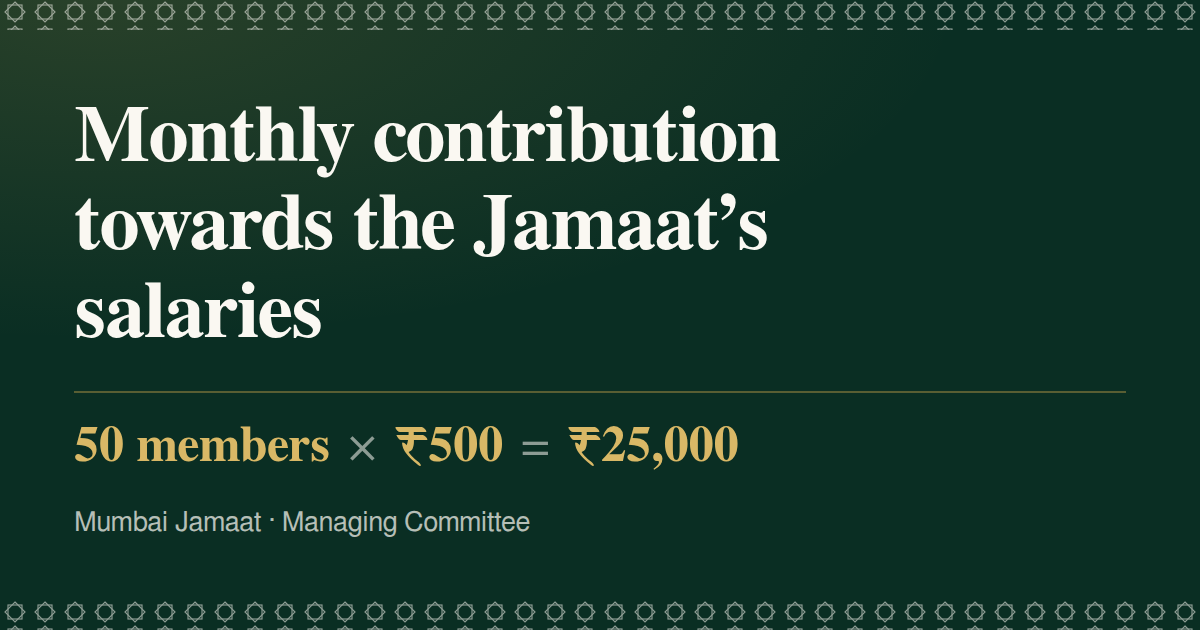
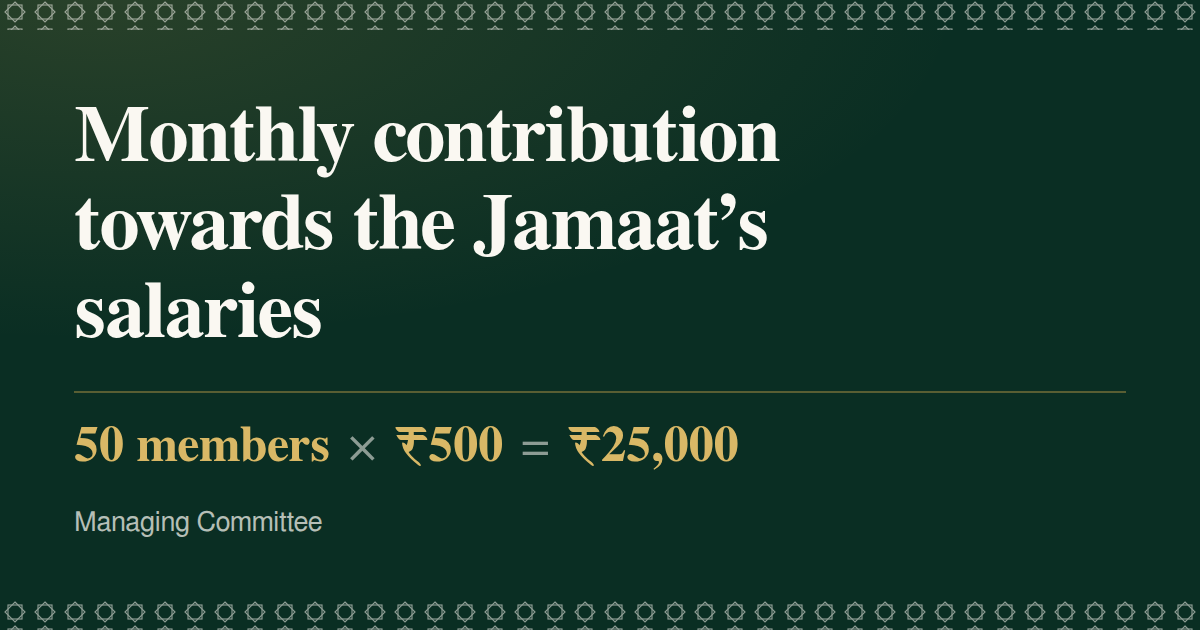
Drop the Jamaat's city from the wording
"Mumbai Jamaat" came from the brief and was carried into the title, the
line under every heading, the signature and the preview card. It is out
of all of them now: the pages are signed by the Managing Committee, and
the card names them at its foot.

The word stays where it means the place and not the body — the city
suggestions on the form, and the Asia/Kolkata day the deadline and the
report's dates are counted in.

Claude-Session: https://claude.ai/code/session_01TF4FBVyUVGSXTy8kY9dSEL

Changed region(s): [[0.0617, 0.8143, 0.4625, 0.8444]]

diff --git a/src/app/layout.tsx b/src/app/layout.tsx
@@ -1,7 +1,6 @@
 import type { Metadata, Viewport } from "next";
 import {
   FORM_CLOSES,
-  JAMAAT,
   MONTHLY_TARGET,
   ORGANISATION,
   ORGANISATION_SHORT,
@@ -22,8 +21,8 @@ const SUMMARY =
 
 export const metadata: Metadata = {
   metadataBase: new URL(SITE_URL),
-  title: `${ORGANISATION_SHORT} — ${JAMAAT}`,
-  description: `${ORGANISATION}, ${JAMAAT}. ${SUMMARY}`,
+  title: ORGANISATION_SHORT,
+  description: `${ORGANISATION}. ${SUMMARY}`,
   applicationName: ORGANISATION_SHORT,
   // The Jamaat's finances are its own business. Shared by link, not searched
   // for — and the crawlers that unfurl a link preview do not consult this.
@@ -31,7 +30,7 @@ export const metadata: Metadata = {
   openGraph: {
     type: "website",
     url: SITE_URL,
-    siteName: `${ORGANISATION_SHORT} · ${JAMAAT}`,
+    siteName: ORGANISATION_SHORT,
     title: "Monthly contribution towards the Jamaat's salaries",
     description: SUMMARY,
     locale: "en_IN",

diff --git a/src/lib/strings.ts b/src/lib/strings.ts
@@ -92,7 +92,7 @@ const en: Copy = {
   switchLabel: "Read this in",
 
   title: "Monthly contribution towards the Jamaat’s salaries",
-  standfirst: "Mumbai Jamaat · Managing Committee",
+  standfirst: "Managing Committee",
 
   daysLeft: (days) => `${days} ${days === 1 ? "day" : "days"} left to fill this in`,
   lastDay: "Today is the last day to fill this in",
@@ -166,7 +166,7 @@ const ur: Copy = {
   switchLabel: "Ise padhein",
 
   title: "Jamaat ki tankhwahon ke liye mahana taawun",
-  standfirst: "Mumbai Jamaat · Managing Committee",
+  standfirst: "Managing Committee",
 
   daysLeft: (days) => `${days} din baaqi hain`,
   lastDay: "Aaj aakhri din hai",

diff --git a/src/app/enter/page.tsx b/src/app/enter/page.tsx
@@ -1,4 +1,4 @@
-import { JAMAAT, ORGANISATION } from "@/lib/constants";
+import { ORGANISATION } from "@/lib/constants";
 
 export const dynamic = "force-dynamic";
 
@@ -13,7 +13,7 @@ export default async function Enter({ searchParams }: { searchParams: Search }) 
       <header className="masthead">
         <p className="eyebrow">{ORGANISATION}</p>
         <h1>Contribution report</h1>
-        <p className="standfirst">{JAMAAT} &middot; Managing Committee only</p>
+        <p className="standfirst">Managing Committee only</p>
         <div className="band" aria-hidden="true" />
       </header>
 

diff --git a/src/app/report/page.tsx b/src/app/report/page.tsx
@@ -1,7 +1,6 @@
 import { listMembers } from "@/lib/db";
 import {
   AMOUNT_OPTIONS,
-  JAMAAT,
   MONTHLY_TARGET,
   ORGANISATION,
   SIGNATORY,
@@ -64,9 +63,7 @@ export default async function Report() {
       <header className="masthead">
         <p className="eyebrow">{ORGANISATION}</p>
         <h1>Contributions pledged</h1>
-        <p className="standfirst">
-          {JAMAAT} &middot; as at {today()}
-        </p>
+        <p className="standfirst">Managing Committee &middot; as at {today()}</p>
         <div className="band" aria-hidden="true" />
       </header>
 

diff --git a/src/lib/constants.ts b/src/lib/constants.ts
@@ -56,8 +56,7 @@ export const CITY_SUGGESTIONS = [
 
 export const ORGANISATION = "Pewe Jama-tul-Muslimeen Deeni Thali Fund";
 export const ORGANISATION_SHORT = "PJMDTF";
-export const JAMAAT = "Mumbai Jamaat";
-export const SIGNATORY = "Managing Committee, PJMDTF (Mumbai Jamaat)";
+export const SIGNATORY = "Managing Committee, PJMDTF";
 
 /** Indian digit grouping: 25000 reads as 25,000 and 100000 as 1,00,000. */
 export function formatRupees(n: number): string {

diff --git a/src/app/globals.css b/src/app/globals.css
@@ -1,4 +1,4 @@
-/* PJMDTF — Mumbai Jamaat.
+/* PJMDTF.
    Deep green and warm gold on off-white. Serif headings, clean sans text,
    one column, big type. The readers are older men reading on phones. */
 

diff --git a/README.md b/README.md
@@ -1,6 +1,6 @@
 # PJMDTF — Member Directory & Voluntary Contribution Form
 
-Pewe Jama-tul-Muslimeen Deeni Thali Fund, Mumbai Jamaat.
+Pewe Jama-tul-Muslimeen Deeni Thali Fund.
 
 The Managing Committee's monthly contribution appeal, and the form that goes
 with it. It replaces the WhatsApp message and Google Form.
